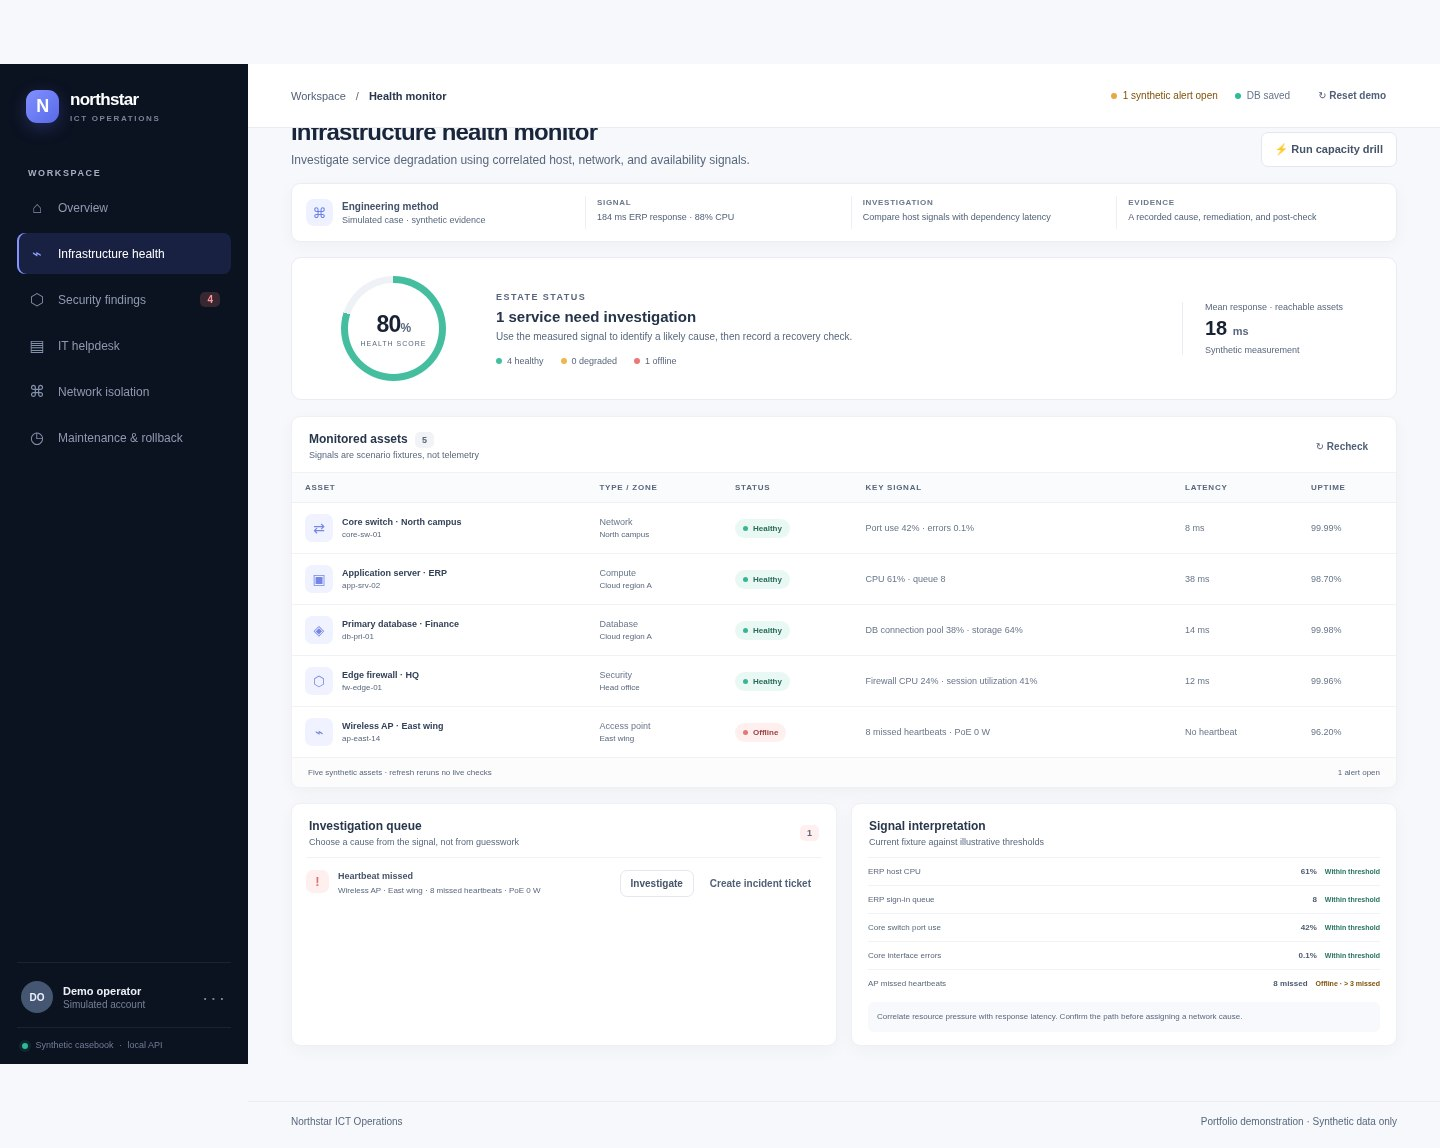
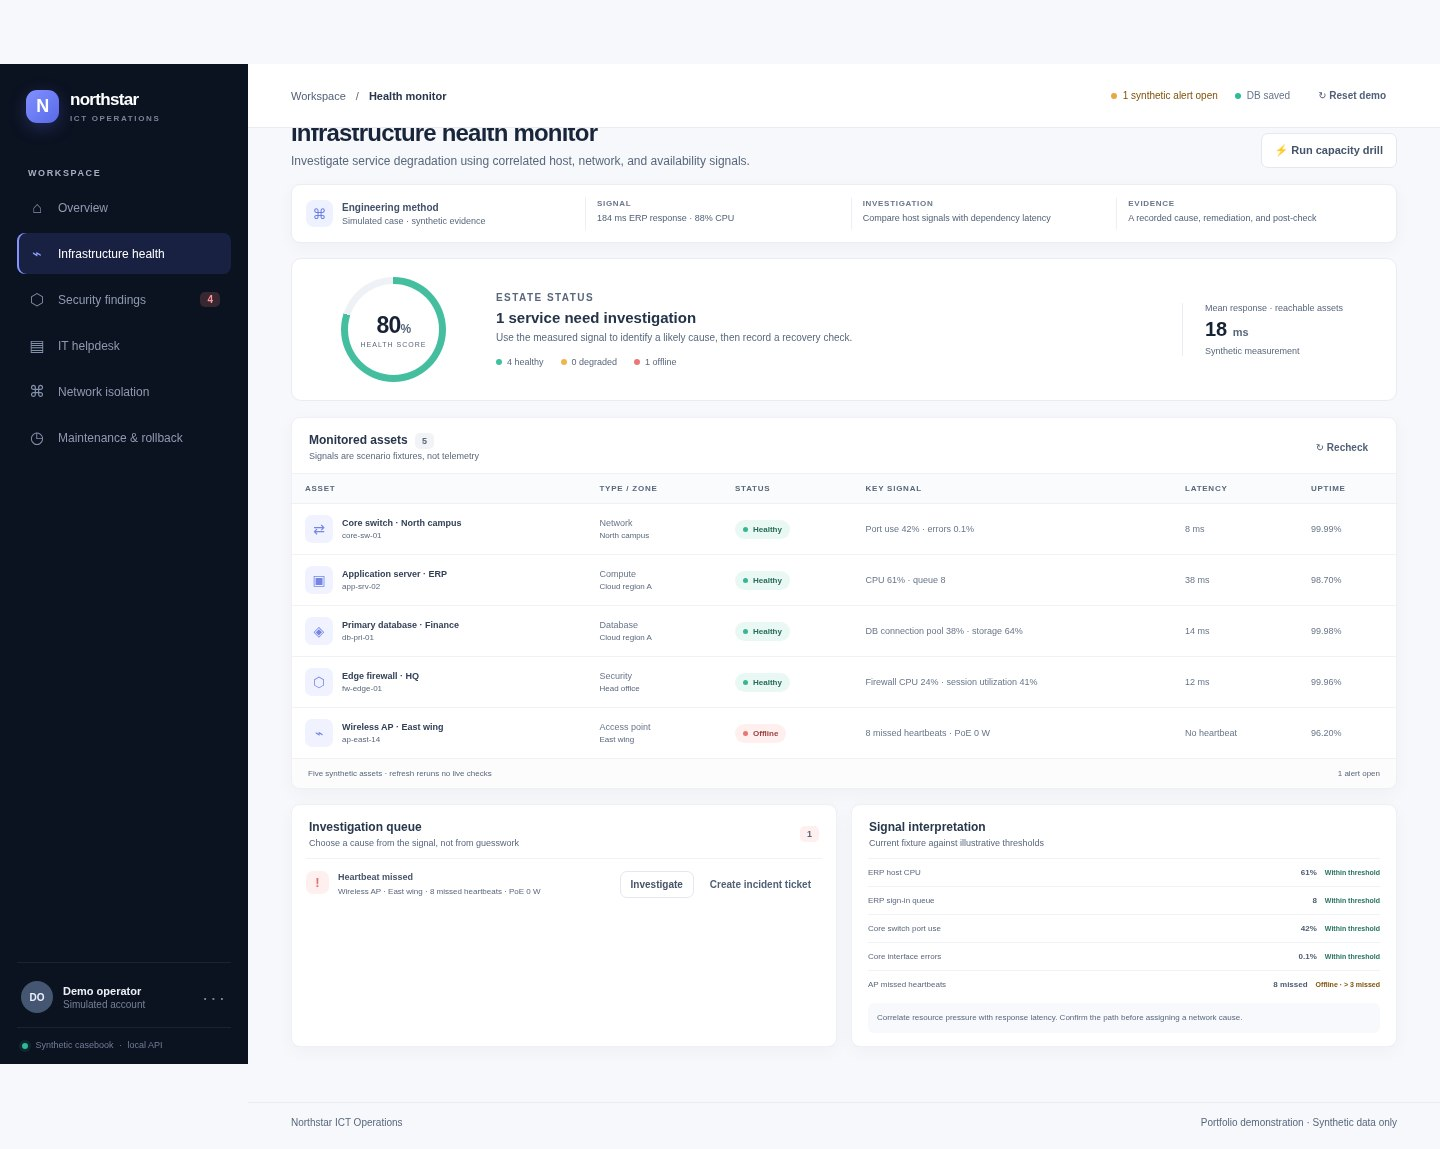
Improve small-label contrast and refresh screenshots

diff --git a/src/styles.css b/src/styles.css
@@ -293,10 +293,10 @@ body {
   margin-bottom:26px
 }
 .eyebrow {
-  font-size:9px;
+  font-size:10px;
   letter-spacing:1.45px;
   font-weight:700;
-  color:#97a1b2;
+  color:#59677d;
   margin-bottom:9px
 }
 .eyebrow span {
@@ -1372,8 +1372,8 @@ tbody tr:last-child td {
   display:inline-flex;
   align-items:center;
   gap:4px;
-  font-size:8px;
-  color:#8390a3
+  font-size:9px;
+  color:#59677d
 }
 .priority i {
   width:5px;
@@ -1382,7 +1382,7 @@ tbody tr:last-child td {
   border-radius:50%
 }
 .priority.high {
-  color:#d97575
+  color:#a34242
 }
 .priority.high i {
   background:#e17b7b
@@ -1437,12 +1437,12 @@ tbody tr:last-child td {
   padding:9px 0
 }
 .note-items>div>span {
-  font-size:8px;
-  color:#a3adbb
+  font-size:9px;
+  color:#59677d
 }
 .note-items p {
-  font-size:8px;
-  color:#909bab;
+  font-size:9px;
+  color:#59677d;
   margin:0
 }
 .note-items strong {
@@ -1625,10 +1625,10 @@ tbody tr:last-child td {
   height:22px;
   border-radius:7px;
   background:#f3f5fa;
-  color:#9aa5b4;
+  color:#59677d;
   display:grid;
   place-items:center;
-  font-size:8px;
+  font-size:9px;
   font-weight:700
 }
 .sequence-item.complete>span {
@@ -2650,10 +2650,10 @@ button:focus-visible,a:focus-visible,select:focus-visible,input:focus-visible,te
   gap:5px;
   border-radius:12px;
   padding:4px 7px;
-  font-size:7px;
+  font-size:9px;
   font-weight:700;
   background:#edf8f3;
-  color:#369578;
+  color:#27745f;
   white-space:nowrap
 }
 .sla-pill i {
@@ -2664,11 +2664,11 @@ button:focus-visible,a:focus-visible,select:focus-visible,input:focus-visible,te
 }
 .sla-due-soon {
   background:#fff7e8;
-  color:#b17d2c
+  color:#80520d
 }
 .sla-breached {
   background:#fff0ef;
-  color:#c95f64
+  color:#a34242
 }
 .sla-summary strong {
   font:600 10px "DM Sans",sans-serif;
@@ -3215,7 +3215,7 @@ button:focus-visible,a:focus-visible,select:focus-visible,input:focus-visible,te
   color:#68778d
 }
 .sla-pill {
-  font-size:8px
+  font-size:9px
 }
 .change-impact a {
   color:#5269c4;

diff --git a/docs/verification.md b/docs/verification.md
@@ -134,6 +134,7 @@ The starting point was `development` at `9f632ad7469f0254ec2b622c112da2499a164ec
 - The latest clean-casebook browser capture reran all five workflows and the network-to-helpdesk handoff against the current code. State readback reached revision 13, and history health matched the current head and 13 retained rows. The seven optimized screenshot files in the gallery are from this run; page errors, local request failures, and external requests were all zero. The 390 px mobile homepage had no horizontal overflow.
 - A separate current-code browser pass triaged SEC-2418, created linked high-risk change CHG-209, recorded its validation plan and independent peer review, then approved it. The finding link, approval state, reviewer, and validation plan were read back from SQLite at revision 24, with no browser errors.
 - The latest current-code sweep covered all six routes at 320, 360, 390, 520, 768, 820, 1024, and 1440 px (48 combinations); every view had one application heading, no horizontal overflow, no visible unnamed control, and no browser error or external request. On a fresh 320 px page load, the first Tab focused the skip link.
+- A targeted Chromium text-contrast pass found low contrast in the small page-section labels, helpdesk priority/SLA labels, and sequence numbers. Those labels were darkened and slightly enlarged; the repeat pass found no visible app text below 4.5:1 against its nearest solid background. Decorative glyphs and gradient-backed text were excluded. This check is not a full WCAG contrast audit.
 - A separate current-code sweep at 320, 390, and 1440 px (18 route/viewport combinations) found one heading per route, no visible controls without a detected accessible name, no overflow, and no external requests or browser errors.
 - At 320 px, the new validation-plan dialog exposed an accessible name and description, focused its textarea, kept the page behind it inert, contained Tab and Shift+Tab navigation, returned focus to its trigger on Escape, and had no horizontal overflow or browser error.
 - Chromium saved a capacity drill to SQLite, then used the visible Reset demo control; the API read back the original healthy baseline and the maintenance readiness gate, with no browser error.

diff --git a/README.md b/README.md
@@ -82,7 +82,7 @@ The checks below were run locally; there is no GitHub Actions pipeline configure
 - `npm test` — **17 JavaScript model tests and 65 Python API/server tests** pass.
 - `npm run check` — JavaScript syntax checks pass; `python3 -m py_compile scripts/serve.py scripts/backup_demo_state.py` passes.
 - **Chromium workflow check** — exercised an infrastructure investigation and recovery, security triage and evidence-backed resolution, helpdesk ticket creation and first response, network diagnosis with ticket handoff, and the maintenance approval-to-rollback path. Each saved state was read back from the temporary SQLite API.
-- **Responsive browser check** — opened all six routes at 320, 390, 768, and 1440 CSS px (24 route/width combinations); none overflowed. A further 18 checks at 320, 390, and 1440 px found one heading per route and no visible controls without an accessible name. Keyboarding to the skip link focused the main content. This is a focused check, not a formal accessibility audit; prior route and interaction evidence is in [verification.md](docs/verification.md).
+- **Responsive/accessibility checks** — 48 Chromium checks across all six routes and widths from 320 to 1440 CSS px found no horizontal overflow, unnamed visible controls, page errors, or external requests. On a fresh 320 px load, the first Tab reached the skip link. A targeted text-contrast pass prompted darker, slightly larger page labels and helpdesk priority/SLA states; its repeat run found no visible app text below 4.5:1 against solid backgrounds. This is not a formal WCAG audit; detailed scope is in [verification.md](docs/verification.md).
 - **Recovery check** — stale writes returned HTTP 409 without replacing the accepted snapshot; restore created a new head and `/api/health` matched retained history. A two-browser conflict check verified cancel preserves both copies, while a confirmed retry saves the browser backup and keeps the previous server revision retrievable in SQLite history. A backup passed `PRAGMA integrity_check` and had POSIX mode `0600`.
 - **Browser errors and external requests** — none observed in the final capture/workflow run.
 
